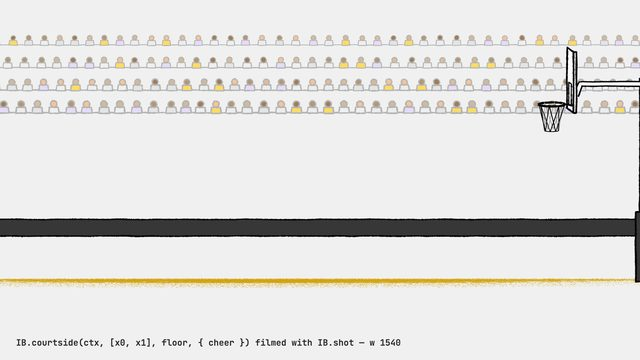
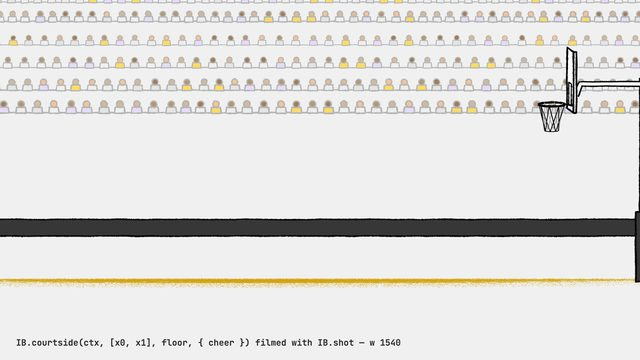
fix: 클로즈업에서 드러난 부품과 배치의 약점을 고침 (#80)
* fix: 도미노 첫 샷에 소매가 들어오게 창을 넓힘

클로즈업 창(860→760)이 손목 앞에서 잘려 IB.pointer의 소매가 화면 밖으로 나가, 손이 벙어리장갑처럼 떠 보였다. 부품에는 소매와 접힌 손가락이 다 있으므로 부품을 바꾸지 않고, 창을 960→860으로 넓히고 90 px 왼쪽으로 옮겨 소매가 화면 왼쪽 아래에서 들어오게 했다.

Claude-Session: https://claude.ai/code/session_01SxpfC2T1LyEk5ytvqY9P1D

* fix: 앨리웁에서 덩크 뒤 떨어지는 선수를 앞 그물 위에

그물의 앞줄을 언제나 피니셔 뒤에 그려, 림을 놓고 떨어지는 선수 위로 그물이 겹쳤다. 고정 와이드에서는 작아 가려졌고, 다시 찍을 때는 그 프레임을 컷으로 피했다. 덩크 동안은 손이 림 안이라 앞줄이 손 위에 오는 것이 맞으므로, 손을 놓는 FS + 2부터만 공과 앞 그물을 선수보다 먼저 그린다.

Claude-Session: https://claude.ai/code/session_01SxpfC2T1LyEk5ytvqY9P1D

* feat: 농구장 관중석에 윗단을 더해 림 위 프레임이 비지 않게

IB.courtside의 관중은 floor - 600에서 네 줄이라, 카메라가 림 클로즈업이나 림 위로 올라가면 관중 위에 빈 띠가 보였다. 같은 옅은 회색으로 더 작은(0.72배) 윗단 세 줄을 그 위에 더한다(opts.upper, 기본 3, 0이면 없음). 아랫단 네 줄은 시드와 위치가 그대로라 기존 장면의 관중은 바뀌지 않는다. 아랫단을 위로 늘리는 대안은 각 줄의 시드와 크기가 줄 번호에 묶여 있어 기존 관중이 모두 바뀌므로 버렸다.

Claude-Session: https://claude.ai/code/session_01SxpfC2T1LyEk5ytvqY9P1D

* fix: 도쿄 장면의 아이가 먼 팔을 들어 얼굴이 보이게

손을 흔들고 멈춘 팔이 가까운 팔이라 얼굴을 가렸다. 그래서 다시 찍을 때 클로즈업을 포기하고 미디엄(760)으로 넓혔다. 흔드는 팔과 멈춘 팔을 먼 팔로 바꾸니 팔이 머리 뒤로 가 얼굴이 보이고, 마지막 컷을 아이 전신의 620 px 창으로 당겼다.

Claude-Session: https://claude.ai/code/session_01SxpfC2T1LyEk5ytvqY9P1D

* fix: 화면 밖에서 온 팔의 소매를 x 2700까지

IB.reachArm의 소매가 x 2000에서 시작해, 카메라가 무대 오른쪽 끝(1920) 너머까지 잡으면 소매의 끝이 보였다. 기본 시작점을 어떤 창의 오른쪽 끝보다도 먼 2700으로 옮긴다. 소매 곡선은 같은 세 점을 지나므로 화면 안의 모양은 거의 같다(balloons-lift-chair 렌더로 확인).

Claude-Session: https://claude.ai/code/session_01SxpfC2T1LyEk5ytvqY9P1D

* chore: 고친 장면과 견본의 포스터 갱신
[…]

Changed region(s): [[0.0, 0.0, 1.0, 0.0611]]

diff --git a/brushpen/scenes/city/tokyo-shinkansen-sakura.html b/brushpen/scenes/city/tokyo-shinkansen-sakura.html
@@ -15,7 +15,7 @@
 <script src="../../kit/props/citylife.js"></script>
 <script>
 /* 도쿄 근교: 후지산을 뒤로 벚꽃잎이 천천히 떨어지는 둑길에서 아이가 기다리다 손을 흔들고, 신칸센이 눈 깜짝할 새 지나가며 꽃잎을 한꺼번에 휘몰아 간다. 꽃잎이 다시 가라앉을 때까지 아이는 손을 든 채 멈춰 있다. 원본에 없는 창작 장면이다. 전달하는 생각: 가장 빠른 것이 지나간 뒤에 가장 느린 것이 남는다.
-   Motion notes: 8 s in five shots (IB.shot, on ones): 0-1.17 s Fuji over the embankment (1560 px window); 1.17 s a cut to a low 900 px shot of the child with the mountain over her as she waits and waves; 2.33 s a cut to a 1000 px shot low on the rails as the train tears through, the frame jolting 22 px as its nose enters at 2.58 s, the near tree shaking at the left edge; 3.5 s a cut back to her (760 px), hand still up, the petals blowing past; 4.83 s an ease (44 frames) back to the mountain (1720 px window) as the petals settle. Mount Fuji fills the horizon; the rail runs along an embankment in front of it with a cherry tree at each side. The petals are a new drawing every 2 frames (IB.petals), drifting 3 px a drawing; the train is a machine on ones: its nose enters at 2.5 s and the whole 2600 px train is gone 0.55 s later (4800 px/s, about 34 m/s at this scale), with three speed lines behind its tail on the frames it passes. Its wake blows the petals right: the drift jumps to 60 px a drawing and falls back to 3 over 1.5 s (an exponential, tau 0.5 s), and the near tree's blossom shakes for 4 drawings. The child (h 225, the people's 0.68) waits, then waves on twos (two drawings, no prev) from 1.5 s, freezes with her hand up as the train passes, and holds it there, her ponytail trailing a drawing (pose.prev) as the wake hits. From 6.0 s only the petals move. Colours: Fuji's sky blue and snow, the train's white and blue line, the blossom's lavender (the palette's nearest to pale pink), the child's lavender top. */
+   Motion notes: 8 s in five shots (IB.shot, on ones): 0-1.17 s Fuji over the embankment (1560 px window); 1.17 s a cut to a low 900 px shot of the child with the mountain over her as she waits and waves; 2.33 s a cut to a 1000 px shot low on the rails as the train tears through, the frame jolting 22 px as its nose enters at 2.58 s, the near tree shaking at the left edge; 3.5 s a cut back to her whole figure (620 px), her far hand still up behind her head so her face reads, the petals blowing past; 4.83 s an ease (44 frames) back to the mountain (1720 px window) as the petals settle. Mount Fuji fills the horizon; the rail runs along an embankment in front of it with a cherry tree at each side. The petals are a new drawing every 2 frames (IB.petals), drifting 3 px a drawing; the train is a machine on ones: its nose enters at 2.5 s and the whole 2600 px train is gone 0.55 s later (4800 px/s, about 34 m/s at this scale), with three speed lines behind its tail on the frames it passes. Its wake blows the petals right: the drift jumps to 60 px a drawing and falls back to 3 over 1.5 s (an exponential, tau 0.5 s), and the near tree's blossom shakes for 4 drawings. The child (h 225, the people's 0.68) waits, then waves on twos (two drawings, no prev) from 1.5 s, freezes with her hand up as the train passes, and holds it there, her ponytail trailing a drawing (pose.prev) as the wake hits. From 6.0 s only the petals move. Colours: Fuji's sky blue and snow, the train's white and blue line, the blossom's lavender (the palette's nearest to pale pink), the child's lavender top. */
 const F = IB.FIG, GROUND = 930, RAIL = 812, PI = Math.PI;
 const KID = { ...IB.PEOPLE.pupil2, h: 225, dir: -1, seed: 60 }, KX = 1360, HY = IB.stand(0, GROUND, KID).hip[1], AY = GROUND - F.ankle * KID.h;
 const PASS = 2.5, WAKE = 62, TRAIN_V = 4800, LEN = 2600, noseAt = (t) => -40 + (t - PASS) * TRAIN_V;   // WAKE: the frame the nose enters the low shot on the rails, where the frame jolts
@@ -23,9 +23,9 @@ const windAt = (t) => 3 + (t > PASS ? 57 * Math.exp(-(t - PASS) / 0.5) : 0);
 const drift = (tt) => { let x = 0; for (let k = 0; k < tt * 12; k++) x += windAt(k / 12); return x; };   // petals' total drift, summed drawing by drawing so it stays pure
 const kp = (hands, more = {}) => IB.posed(KID, { hip: [KX, HY], lean: 0, feet: [[KX + 0.05 * KID.h, AY, 0], [KX - 0.05 * KID.h, AY, 0]], hands, ...more });
 const WAIT = kp([{ a: PI / 2 - 0.15, l: 0.26 }, { a: PI / 2 + 0.1, l: 0.26 }], { face: { eye: 'dot', mouth: 'smile' } });
-const WAVE_A = kp([{ a: PI / 2 - 0.15, l: 0.26 }, { a: -PI / 2 + 0.35, l: 0.285 }], { hand: ['relax', 'open'], face: { eye: 'dot', mouth: 'open' } });
-const WAVE_B = kp([{ a: PI / 2 - 0.15, l: 0.26 }, { a: -PI / 2 - 0.2, l: 0.285 }], { hand: ['relax', 'open'], face: { eye: 'dot', mouth: 'open' } });
-const FREEZE = kp([{ a: PI / 2 - 0.3, l: 0.26 }, { a: -PI / 2 + 0.1, l: 0.285 }], { hand: ['relax', 'open'], lean: -0.08, nod: -0.1, face: { eye: 'wide', mouth: 'open' } });
+const WAVE_A = kp([{ a: -PI / 2 + 0.35, l: 0.285 }, { a: PI / 2 + 0.1, l: 0.26 }], { hand: ['open', 'relax'], face: { eye: 'dot', mouth: 'open' } });
+const WAVE_B = kp([{ a: -PI / 2 - 0.2, l: 0.285 }, { a: PI / 2 + 0.1, l: 0.26 }], { hand: ['open', 'relax'], face: { eye: 'dot', mouth: 'open' } });
+const FREEZE = kp([{ a: -PI / 2 + 0.1, l: 0.285 }, { a: PI / 2 + 0.2, l: 0.26 }], { hand: ['open', 'relax'], lean: -0.08, nod: -0.1, face: { eye: 'wide', mouth: 'open' } });
 const ACT = [[0, WAIT]];
 for (let f = 36; f < 60; f += 4) ACT.push([f, WAVE_A], [f + 2, WAVE_B]);
 ACT.push([60, FREEZE]);
@@ -34,7 +34,7 @@ const SHOTS = [
   [0, [180, 190, 1560]],                                             // Fuji over the embankment, the petals falling
   [28, { at: [1300, 680], w: 900 }, 'cut'],                          // low on the child, the mountain over her: she waits, then waves
   [56, { at: [760, 720], w: 1000 }, 'cut'],                          // low on the rails as the train tears through; the wake shakes the frame and the near tree
-  [84, { at: [1290, 720], w: 760 }, 'cut'],                          // back on her, hand still up, the petals blowing past
+  [84, { at: [1340, 790], w: 620 }, 'cut'],                          // back on her, hand still up, the petals blowing past
   [116, [100, 140, 1720], 'ease', 44],                               // drawing back to the mountain as the petals settle
 ];
 

diff --git a/brushpen/kit/props/sports.js b/brushpen/kit/props/sports.js
@@ -209,8 +209,10 @@
     IB.smear(ctx, (x0 + x1) / 2, floor - 6, x1 - x0 + 200, { h: 16, color: C.green, seed: 9 });
   };
 
-  /* courtside(ctx, [x0, x1], floor, opts) — the backdrop of a basketball shot in one call: the arena crowd (IB.stands, four faint rows from floor - 600, so the hoop's ink reads over them), a padded courtside wall 110 px behind the floor line, and the wooden floor as a mustard chalk smear. opts: cheer, colors, seed. */
+  /* courtside(ctx, [x0, x1], floor, opts) — the backdrop of a basketball shot in one call: the arena crowd (IB.stands, four faint rows from floor - 600, so the hoop's ink reads over them, and an upper tier of `upper` smaller rows above them, 3 by default, for frames above the rim), a padded courtside wall 110 px behind the floor line, and the wooden floor as a mustard chalk smear. opts: cheer, colors, upper, seed. */
   IB.courtside = (ctx, [x0, x1], floor, o = {}) => {
+    const upper = o.upper == null ? 3 : o.upper, uh = 64 * 0.72;   // the upper tier: smaller and farther, so a frame above the rim is not a blank band
+    if (upper) IB.stands(ctx, [x0, x1], floor - 600 - upper * uh - 6, { rows: upper, colors: o.colors || [C.yellow, C.lavender], share: 0.3, cheer: o.cheer || 0, s: 0.72, seed: (o.seed || 720) + 500, faint: true });
     IB.stands(ctx, [x0, x1], floor - 600, { rows: 4, colors: o.colors || [C.yellow, C.lavender], share: 0.3, cheer: o.cheer || 0, s: 0.85, seed: o.seed || 720, faint: true });
     IB.ink(ctx, [[x0 - 40, floor - 150], [x1 + 40, floor - 150], [x1 + 40, floor - 110], [x0 - 40, floor - 110]], { closed: true, smooth: false, fill: C.charcoal, w: 2.6, seed: 760 });
     IB.smear(ctx, (x0 + x1) / 2, floor - 6, x1 - x0 + 200, { h: 16, color: C.mustard, seed: 11 });

diff --git a/brushpen/scenes/basketball/alley-oop.html b/brushpen/scenes/basketball/alley-oop.html
@@ -106,10 +106,13 @@ MG.scene({
       const d = defender(f), g = guard(f);
       IB.figure(ctx, d, lookOf(d, DF));
       IB.figure(ctx, g, GD);
+      // through the slam his hand is inside the rim, so the net's front strings go over him; once he lets go and drops (FS + 2) he is on the court side of the net and his body goes over it
+      const dropped = f >= FS + 2;
+      if (dropped) { IB.basketball(ctx, ballAt(f), { r: R, rot: f * 0.3, lw: 2.6, seed: 91 }); IB.hoop(ctx, [BOARD, FLOOR], { ...hp, layer: 'front' }); }
       IB.figure(ctx, fn1, lookOf(fn1, FN), 'far');
-      IB.basketball(ctx, ballAt(f), { r: R, rot: f * 0.3, lw: 2.6, seed: 91 });
+      if (!dropped) IB.basketball(ctx, ballAt(f), { r: R, rot: f * 0.3, lw: 2.6, seed: 91 });
       IB.figure(ctx, fn1, lookOf(fn1, FN), 'near');
-      IB.hoop(ctx, [BOARD, FLOOR], { ...hp, layer: 'front' });
+      if (!dropped) IB.hoop(ctx, [BOARD, FLOOR], { ...hp, layer: 'front' });
       const c = IB.drawn(tt, FC / 24), sl = IB.drawn(tt, FS / 24), ld = IB.drawn(tt, LAND / 24);
       if (c >= 0 && c < 1) IB.burst(ctx, CATCH, { n: 4, a0: -2.8, da: 0.6, r0: 24, r1: 44, w: 2.8, seed: 60 });
       if (sl >= 0 && sl < 2) IB.burst(ctx, [RC[0], RC[1] - 10], { n: 6, a0: -3.1, da: 0.55, r0: 40 + sl * 10, r1: 75 + sl * 8, w: 3.2, seed: 70 + sl });

diff --git a/brushpen/kit/figure.js b/brushpen/kit/figure.js
@@ -444,7 +444,7 @@
 
   /* reachArm(ctx, hand, opts) — an arm from off-screen right that holds a string or a small thing: a long sleeve swept in from x `from`, a cuff, and a closed hand with three finger lines, the hand's knuckles at `hand` facing left. Coloured like the other off-screen arm (IB.pointer) but at wide-shot size: sleeve 42 px. Use it only while the arm is used: four drawings in, three out (vignette/balloons-lift-chair). New, not measured. */
   IB.reachArm = (ctx, [hx, hy], o = {}) => {
-    const { from = 2000, sleeve = C.bg, skin = C.skin[1], seed = 400 } = o;
+    const { from = 2700, sleeve = C.bg, skin = C.skin[1], seed = 400 } = o;   // 2700: past the right edge of any frame a camera takes of the stage
     ctx.save();
     IB.tube(ctx, [[from, hy + 70], [hx + 150, hy + 26], [hx + 36, hy + 4]], { w: 42, edge: 3.2, fill: sleeve, smooth: true, seed });
     IB.ink(ctx, [[hx + 44, hy - 20], [hx + 30, hy - 22], [hx + 28, hy + 30], [hx + 44, hy + 30]], { closed: true, smooth: false, fill: C.paper, w: 2.6, seed: seed + 1 });   // cuff

diff --git a/brushpen/scenes/metaphor/dominoes-chain-stop.html b/brushpen/scenes/metaphor/dominoes-chain-stop.html
@@ -29,7 +29,7 @@ function angles(tt) {
 // what moves, for tools/drawings.py: every domino's angle and the two fingers' distance from their marks
 // the camera, frames at 24 fps: the flick close; the save set up; the hit punched in; the whole row after
 const SHOTS = [
-  [0, { at: [470, 680], w: 860 }], [0, { at: [440, 690], w: 760 }, 'push', 24],
+  [0, { at: [380, 680], w: 960 }], [0, { at: [350, 690], w: 860 }, 'push', 24],
   [26, { at: [1180, 600], w: 1000 }, 'cut'],
   [38, { at: [1230, 650], w: 680 }, 'snap'],
   [60, { at: [960, 640], w: 1700 }, 'cut'], [60, { at: [1150, 660], w: 1200 }, 'push', 60],
